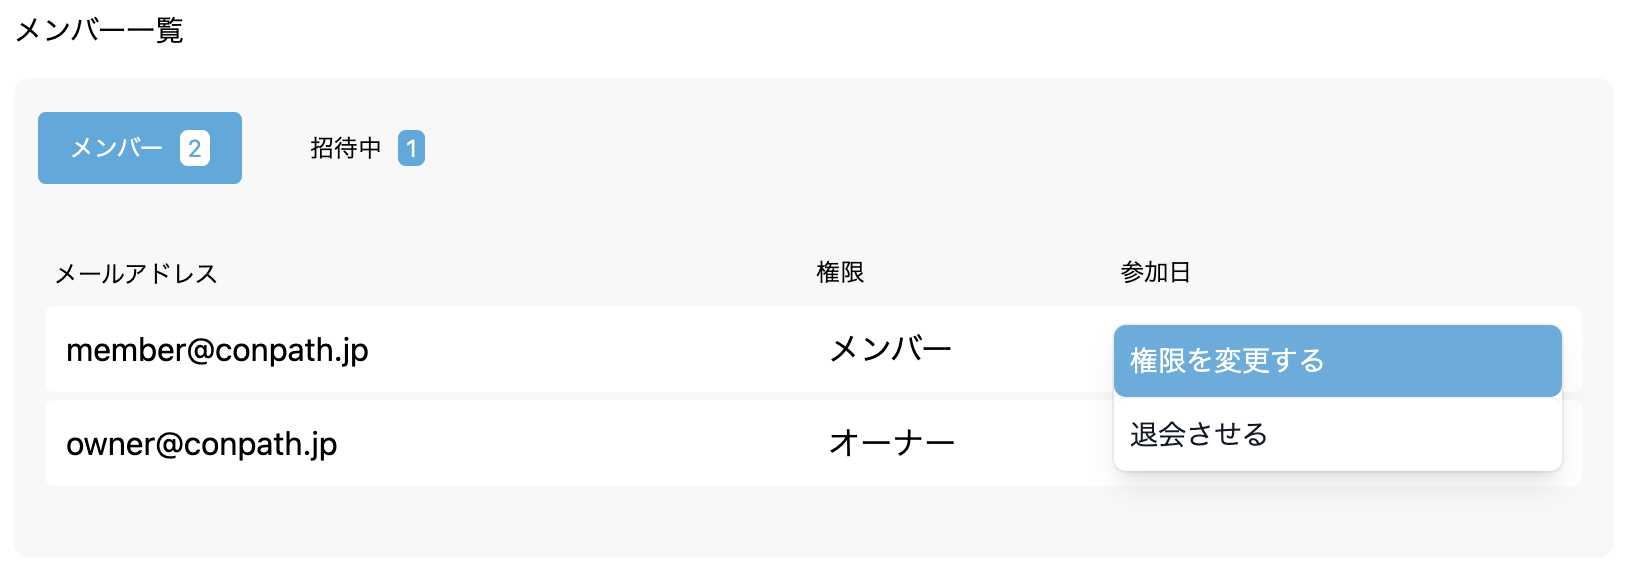
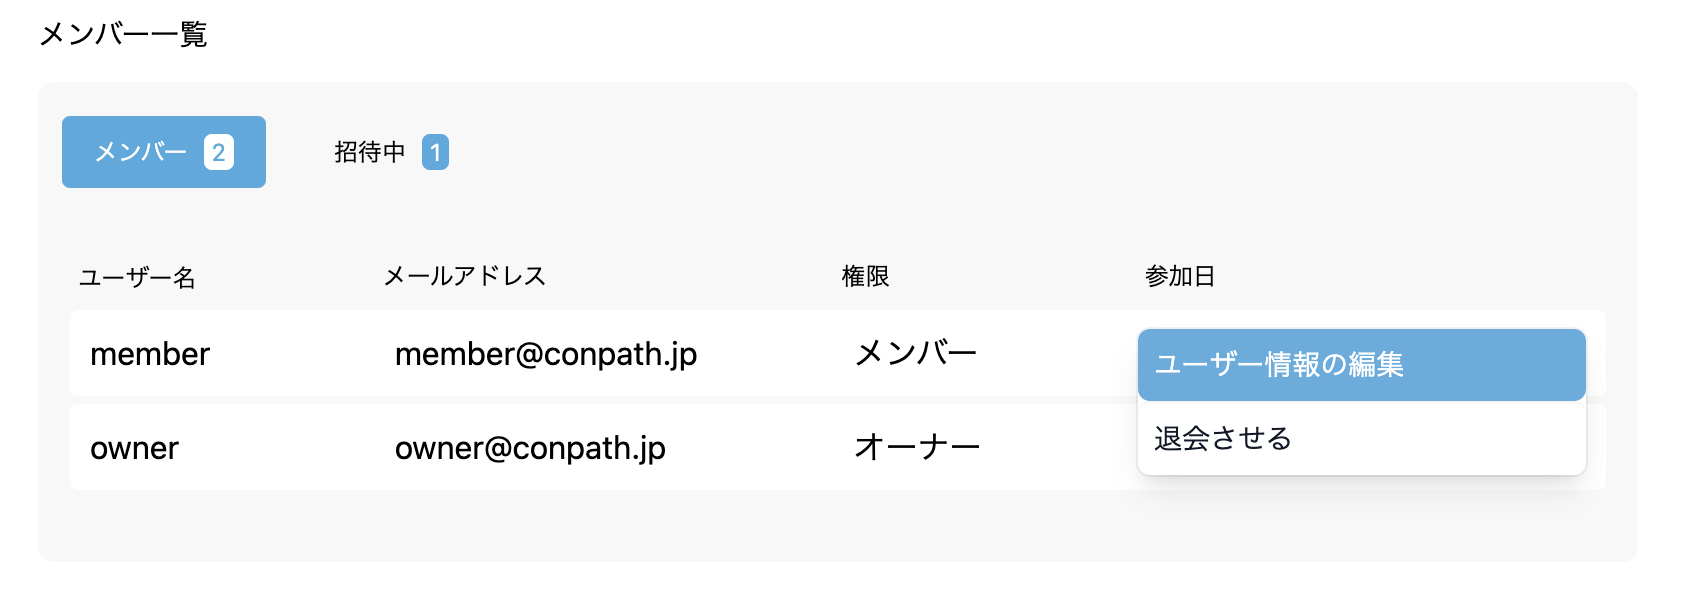
2024/03/17 更新

diff --git a/settings/users/index.md b/settings/users/index.md
@@ -38,14 +38,14 @@ has_children: false
 {: .note }
 この設定は組織の権限がオーナーのみ可能です。
 
-## メンバーの権限を変更する
+## メンバーのユーザー情報を変更する
 
 1. [設定>ユーザー管理]を開きます。
-2. メンバー一覧のメンバータブがアクティブになっている状態で、[...]のドロップダウンメニューから[権限を変更する]をクリックします。
+2. メンバー一覧のメンバータブがアクティブになっている状態で、[...]のドロップダウンメニューから[ユーザー情報の編集]をクリックします。
 
    <img src="../../assets/images/settings/users/3.png" width="100%">
 
-3. 変更したい権限を選択し、[変更する]ボタンをクリックします。
+3. ユーザーの情報を入力し、[変更する]ボタンをクリックします。
 
    <img src="../../assets/images/settings/users/4.png" width="50%">
 

diff --git a/projects/index.md b/projects/index.md
@@ -165,3 +165,9 @@ has_children: true
 
 [プロジェクトの管理]({% link projects/manage-project/index.md %})で設定した範囲のカレンダーが生成されます。今日の日付は水色の線で表示されます。  
 今日の日付が画面外にあるとき、[本日]ボタンをクリックすると今日の日付が画面内に表示されるようキャンバスがスクロールされます。
+
+<img src="../../assets/images/projects/20.png" width="40%">
+
+{: .warning }
+ページを離れるときにこのようなメッセージが出ることがあります。このページを離れるを選択すると変更した内容が保存されないため、
+内容を保存したい場合はキャンセルを選択してください。

diff --git a/projects/task/unlock-task.md b/projects/task/unlock-task.md
@@ -1,13 +1,13 @@
 ---
 layout: default
-title: タスクをロックを解除する
+title: タスクのロックを解除する
 parent: タスクの作成・編集
 grand_parent: プロジェクト
 nav_order: 14
 has_children: false
 ---
 
-# タスクをロックを解除する
+# タスクのロックを解除する
 
 1. ロックを解除したいタスクの上にカーソルを移動します。
 2. 右クリック(iPad:タッチ&ホールド)でコンテキストメニューを開き、[ロック解除]を選択します。
